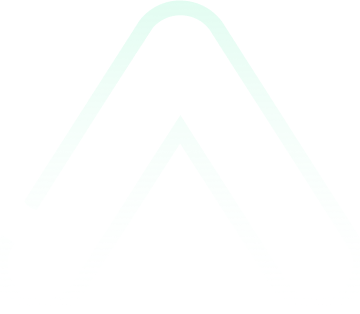
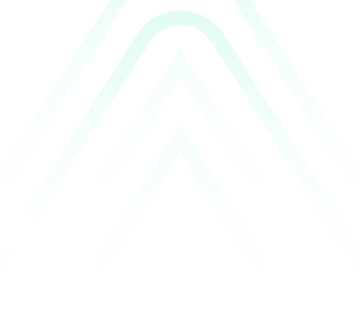
Refactored home and login pages

Changed region(s): [[0.3667, 0.0, 0.6417, 0.1146]]

diff --git a/src/pages/Home.tsx b/src/pages/Home.tsx
@@ -1,14 +1,18 @@
 import { IonContent, IonPage, useIonRouter } from "@ionic/react";
 import logo from "../assets/icons/logo.svg";
 
-import adelanttoBgUrl from "../v2/assets/images/adelantto-bg.png"
+import adelanttoBgUrl from "../v2/assets/images/adelantto-bg.png";
 
 const Home: React.FC = () => {
   return (
     <IonPage>
-      <IonContent fullscreen>
-        <div className={`flex flex-col justify-center px-4 py-6 h-full`} >
-          <img src={adelanttoBgUrl} className="absolute inset-0 mx-auto" />
+      <IonContent
+        style={{
+          "--background": `url(${adelanttoBgUrl}) no-repeat center top`,
+        }}
+        className="ion-padding"
+      >
+        <div className={`flex flex-col justify-center px-4 py-6 h-full`}>
           <div className="mb-14 text-center">
             <img className="inline-block mb-16 w-[220px] h-40" src={logo} />
             <h2 className="mb-4 font-semibold text-2xl">
@@ -26,10 +30,7 @@ const Home: React.FC = () => {
             <a className="btn btn-primary" href="/login">
               Iniciar sesión
             </a>
-            <a
-              className="btn btn-ghost"
-              href="/register"
-            >
+            <a className="btn btn-ghost" href="/register">
               Regístrate
             </a>
           </div>

diff --git a/src/pages/auth/Login.tsx b/src/pages/auth/Login.tsx
@@ -6,6 +6,8 @@ import InputPassword from "../../components/InputPassword";
 import Loader from "../../components/Loader/Loader";
 import { useAuth } from "./authContext";
 
+import adelanttoBgUrl from "../../v2/assets/images/adelantto-bg.png";
+
 type T_form = {
   email: string;
   password: string;
@@ -33,8 +35,13 @@ function Login() {
 
   return (
     <IonPage>
-      <IonContent fullscreen class="ion-padding">
-        <img className="mx-auto mb-20 h-40" src={logo} />
+      <IonContent
+        class="ion-padding"
+        style={{
+          "--background": `url(${adelanttoBgUrl}) no-repeat center top`,
+        }}
+      >
+        <img className="mx-auto my-20 h-40" src={logo} alt="Adelantto Logo" />
         <h1 className="mb-2 w-full font-semibold text-xl">Iniciar sesión</h1>
 
         {errors.root && (
